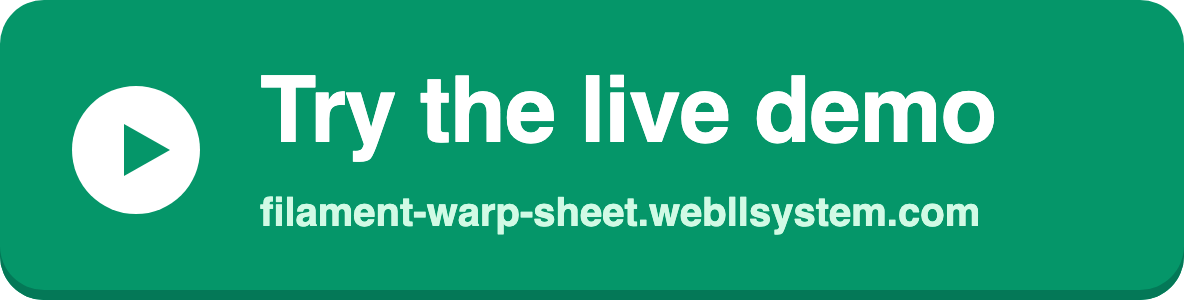
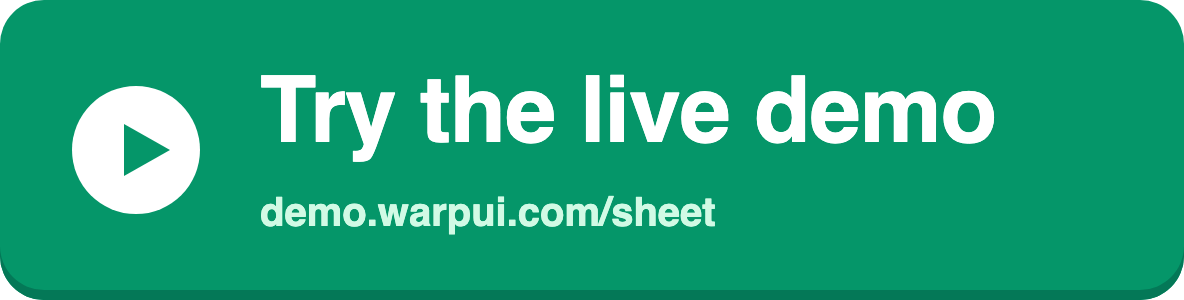
The live demo moved to demo.warpui.com/sheet

Changed region(s): [[0.2188, 0.63, 0.8438, 0.78]]

diff --git a/README.md b/README.md
@@ -4,9 +4,9 @@
 
 **Turn a Filament resource into a spreadsheet: scroll through every record without pagination, edit and paste like Excel, and save all changes in one go — with your policies, validation and conflict checks.**
 
-<a href="https://filament-warp-sheet.webllsystem.com/"><img src="https://raw.githubusercontent.com/qalainau-labs/filament-warp-sheet-docs/main/art/live-demo.png" alt="Try the live demo: filament-warp-sheet.webllsystem.com" width="592"></a>
+<a href="https://demo.warpui.com/sheet"><img src="https://raw.githubusercontent.com/qalainau-labs/filament-warp-sheet-docs/main/art/live-demo.png" alt="Try the live demo: demo.warpui.com/sheet" width="592"></a>
 
-Scroll through 100,000 products, paste from Excel, group by category and save every change at once at **[filament-warp-sheet.webllsystem.com](https://filament-warp-sheet.webllsystem.com/)**. No sign-up needed; the data is reset every hour.
+Scroll through 100,000 products, paste from Excel, group by category and save every change at once at **[demo.warpui.com/sheet](https://demo.warpui.com/sheet)**. No sign-up needed; the data is reset every hour.
 
 Price updates, stock counts and cleaning up a customer list usually mean exporting to Excel, fixing the file and importing it again. Warp Sheet lets your users do that work inside Filament. They see the whole query result as one sheet, move around with the keyboard, paste a block of cells from Excel or Google Sheets, and press Save. The server checks every changed record against its policy and your rules, writes everything in one transaction or nothing at all, and marks the cells that need attention.
 
